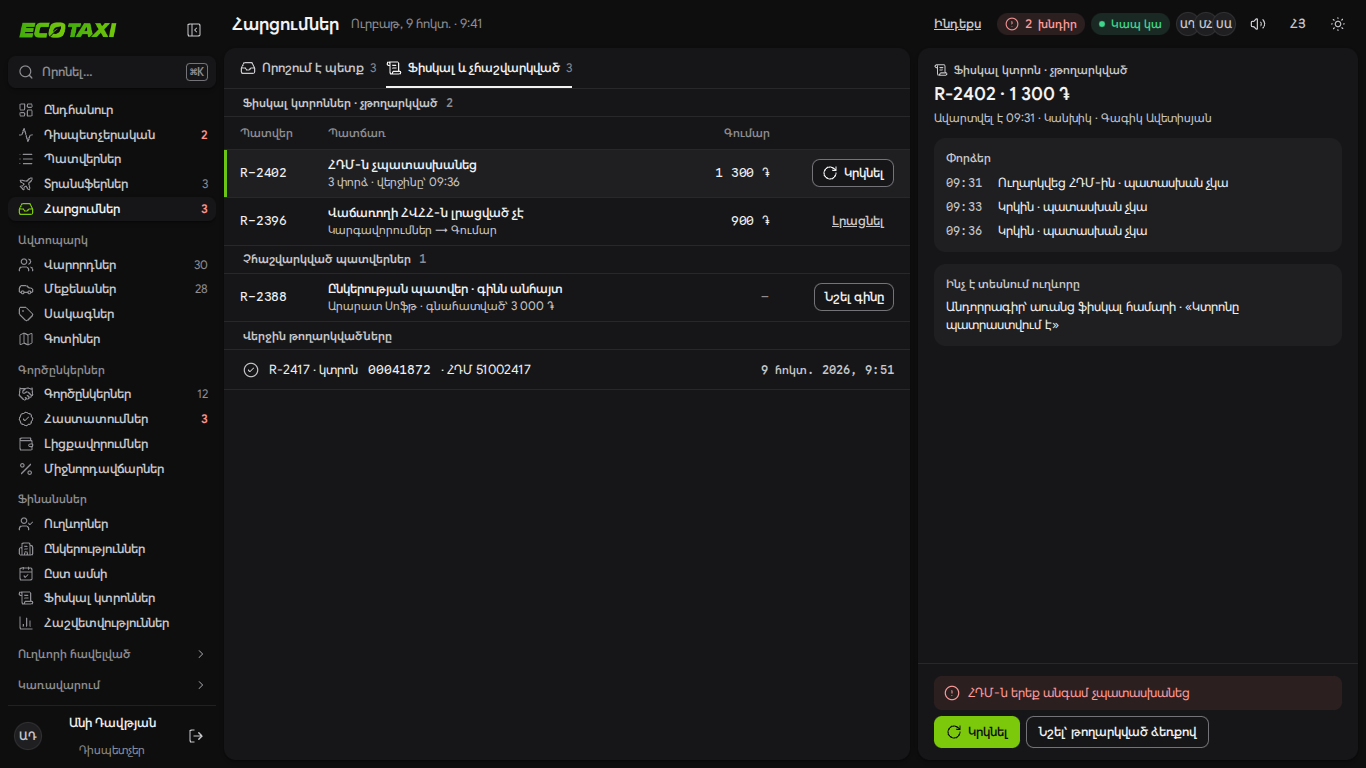
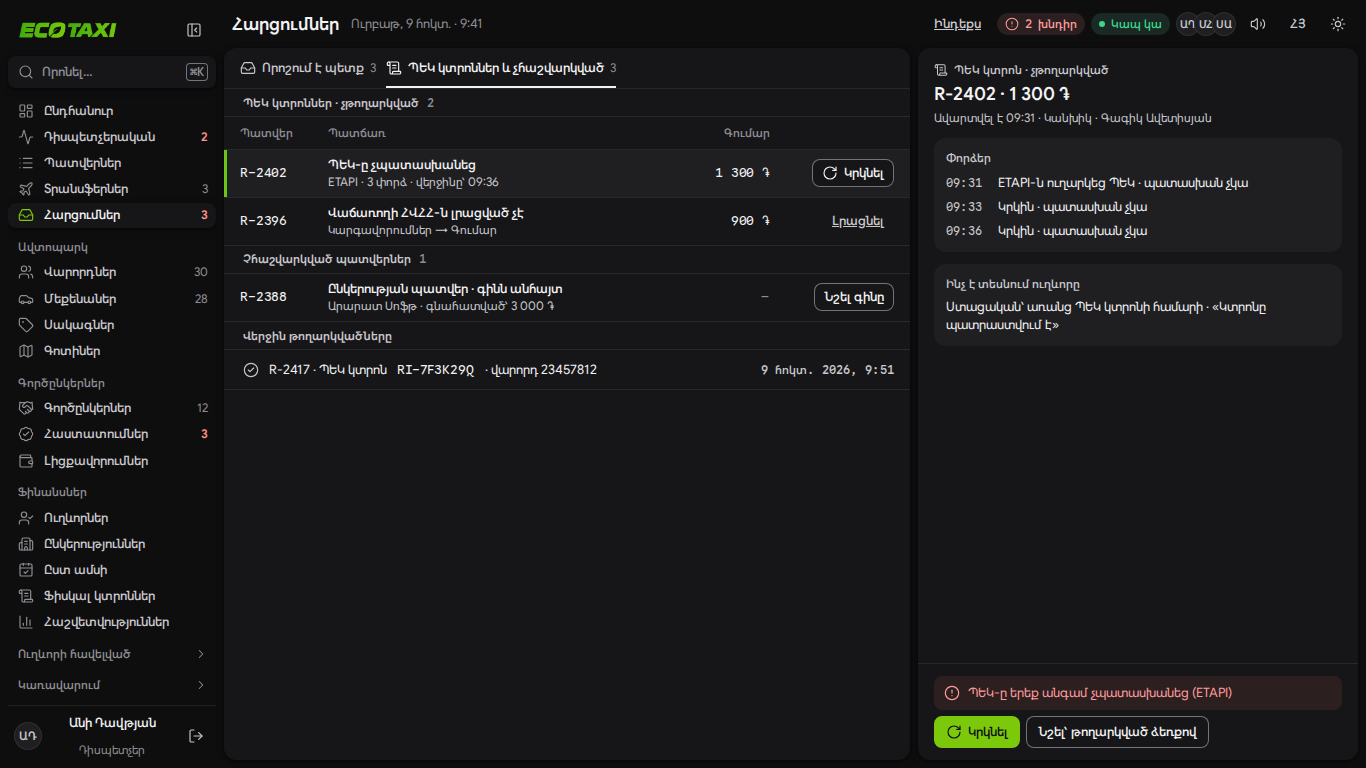
Preview: payment methods (cash, card, Apple/Google Pay, POS/NFC) and Tax Service receipts

diff --git a/driver-ride.html b/driver-ride.html
@@ -65,7 +65,7 @@
   .cash svg { width: 24px; height: 24px; color: var(--ok); flex: none; }
   .cash .t1 { font: var(--t-headline); color: var(--ink); white-space: nowrap; }
   .cash .t2 { font: var(--t-secondary); color: var(--ink-2); white-space: nowrap; font-variant-numeric: tabular-nums; }
-  /* Change list 2026-10-15: on Complete the driver can switch Cash → POS terminal before «Պատրաստ եմ» (the fare is
+  /* Change list 2026-10-15: on Complete the driver can switch Cash → POS terminal or NFC (his phone) before «Պատրաստ եմ» (the fare is
      final; only the method changes; the dispatcher and the receipt follow). The rider can switch Cash ↔ Card mid-ride. */
   .cash.pos { background: var(--info-soft); } .cash.pos svg { color: var(--info); }
   .cash.card { background: var(--surface-2); } .cash.card svg { color: var(--ink-2); }
@@ -243,7 +243,7 @@
   <!-- ── in progress, the rider switched Cash → Card in the app (change list 2026-10-15) ── -->
   <section class="sheet" data-s="paychanged" data-sheet>
     <div class="grabber"></div>
-    <div class="notice info" role="status"><i data-lucide="wallet"></i><div><b>Ուղևորը կվճարի քարտով</b>Կանխիկ մի վերցրեք · 9:48</div></div>
+    <div class="notice info" role="status"><i data-lucide="wallet"></i><div><b>Ուղևորը կվճարի հավելվածով՝ քարտ</b>Կանխիկ մի վերցրեք · 9:48</div></div>
     <div class="head" style="margin-top:var(--s3)">
       <div><div class="eyebrow"><span class="d"></span>3 րոպե · 2,1 կմ · 9:51</div><div class="addr">Կոմիտասի պող. 22</div></div>
       <div class="big" style="font:var(--t-title)">1 100 ֏</div>
@@ -286,7 +286,7 @@
       <div class="big">1 100<small>֏</small></div>
     </div>
     <div class="cash"><i data-lucide="banknote"></i><div><div class="t1">Վերցրեք կանխիկ</div><div class="t2">Աննա · Eco City · 1 100 ֏</div></div></div>
-    <div class="done-pay"><div class="paylbl">Ինչպես է վճարում ուղևորը</div><div class="seg" role="radiogroup" aria-label="Վճարման եղանակ"><button role="radio" aria-pressed="true" aria-checked="true">Կանխիկ</button><button role="radio" aria-pressed="false" aria-checked="false">POS տերմինալ</button></div></div>
+    <div class="done-pay"><div class="paylbl">Ինչպես է վճարում ուղևորը</div><div class="seg" role="radiogroup" aria-label="Վճարման եղանակ"><button role="radio" aria-pressed="true" aria-checked="true">Կանխիկ</button><button role="radio" aria-pressed="false" aria-checked="false">POS</button><button role="radio" aria-pressed="false" aria-checked="false">NFC</button></div></div>
     <div class="facts"><div><b>4,3 կմ</b><span>Ճանապարհ</span></div><div><b>6 րոպե</b><span>Տևողություն</span></div><div><b>1:20</b><span>Սպասում</span></div></div>
     <button class="go">Պատրաստ եմ</button>
   </section>
@@ -299,10 +299,24 @@
       <div class="l">Կոմիտասի պող. 22 · 9:51</div>
       <div class="big">1 100<small>֏</small></div>
     </div>
-    <div class="cash pos"><i data-lucide="credit-card"></i><div><div class="t1">Վճարում՝ POS տերմինալով</div><div class="t2">1 100 ֏ · կանխիկ մի վերցրեք</div></div></div>
-    <div class="done-pay"><div class="paylbl">Ինչպես է վճարում ուղևորը</div><div class="seg" role="radiogroup" aria-label="Վճարման եղանակ"><button role="radio" aria-pressed="false" aria-checked="false">Կանխիկ</button><button role="radio" aria-pressed="true" aria-checked="true">POS տերմինալ</button></div></div>
+    <div class="cash pos"><i data-lucide="credit-card"></i><div><div class="t1">Վճարում՝ POS տերմինալով</div><div class="t2">Ուղևորը քարտը մոտեցնում է ձեր տերմինալին</div></div></div>
+    <div class="done-pay"><div class="paylbl">Ինչպես է վճարում ուղևորը</div><div class="seg" role="radiogroup" aria-label="Վճարման եղանակ"><button role="radio" aria-pressed="false" aria-checked="false">Կանխիկ</button><button role="radio" aria-pressed="true" aria-checked="true">POS</button><button role="radio" aria-pressed="false" aria-checked="false">NFC</button></div></div>
     <div class="facts"><div><b>4,3 կմ</b><span>Ճանապարհ</span></div><div><b>6 րոպե</b><span>Տևողություն</span></div><div><b>1:20</b><span>Սպասում</span></div></div>
     <button class="go">Պատրաստ եմ</button>
+  </section>
+
+  <!-- ── complete, NFC: the driver's phone takes the tap (change list 2026-10-15); «Պատրաստ եմ» waits for the payment ── -->
+  <section class="sheet" data-s="done-nfc" data-sheet>
+    <div class="grabber"></div>
+    <div class="done-top">
+      <span class="ok"><i data-lucide="check"></i></span>
+      <div class="l">Կոմիտասի պող. 22 · 9:51</div>
+      <div class="big">1 100<small>֏</small></div>
+    </div>
+    <div class="cash pos" role="status"><i data-lucide="smartphone-nfc"></i><div><div class="t1">Մոտեցրեք քարտը հեռախոսին</div><div class="t2">1 100 ֏ · սպասում ենք վճարմանը</div></div></div>
+    <div class="done-pay"><div class="paylbl">Ինչպես է վճարում ուղևորը</div><div class="seg" role="radiogroup" aria-label="Վճարման եղանակ"><button role="radio" aria-pressed="false" aria-checked="false">Կանխիկ</button><button role="radio" aria-pressed="false" aria-checked="false">POS</button><button role="radio" aria-pressed="true" aria-checked="true">NFC</button></div></div>
+    <div class="facts"><div><b>4,3 կմ</b><span>Ճանապարհ</span></div><div><b>6 րոպե</b><span>Տևողություն</span></div><div><b>1:20</b><span>Սպասում</span></div></div>
+    <button class="go" aria-disabled="true" style="opacity:.5">Սպասում ենք վճարմանը…</button>
   </section>
 
   <!-- ── complete, the rider switched to card mid-ride: nothing to collect, no switch ── -->
@@ -313,7 +327,7 @@
       <div class="l">Կոմիտասի պող. 22 · 9:51</div>
       <div class="big">1 100<small>֏</small></div>
     </div>
-    <div class="cash card"><i data-lucide="wallet"></i><div><div class="t1">Վճարված է քարտով</div><div class="t2">ոչինչ մի վերցրեք · Աննա · Eco City</div></div></div>
+    <div class="cash card"><i data-lucide="wallet"></i><div><div class="t1">Վճարված է հավելվածով</div><div class="t2">քարտ ·· 4242 · ոչինչ մի վերցրեք</div></div></div>
     <div class="facts"><div><b>4,3 կմ</b><span>Ճանապարհ</span></div><div><b>6 րոպե</b><span>Տևողություն</span></div><div><b>1:20</b><span>Սպասում</span></div></div>
     <button class="go">Պատրաստ եմ</button>
   </section>
@@ -429,11 +443,11 @@
 <script>
   const st0 = new URLSearchParams(location.search).get('state') || 'assigned'
   /* The clock follows ECO.RIDE: assigned 9:41, at the pickup 9:45, riding 9:47, dropped 9:51. */
-  statusBar(document.getElementById('s'), { enroute: '9:43', arrived: '9:45', noshow: '9:50', noshowsent: '9:51', offline: '9:45', call: '9:45', cancel: '9:45', inprogress: '9:47', done: '9:51', 'done-pos': '9:51', 'done-card': '9:51', paychanged: '9:48', chat: '9:43', 'company-inprogress': '9:47', 'company-done': '9:51', changed: '9:43', destchanged: '9:48', sos: '9:48' }[st0] || '9:41')
+  statusBar(document.getElementById('s'), { enroute: '9:43', arrived: '9:45', noshow: '9:50', noshowsent: '9:51', offline: '9:45', call: '9:45', cancel: '9:45', inprogress: '9:47', done: '9:51', 'done-pos': '9:51', 'done-nfc': '9:51', 'done-card': '9:51', paychanged: '9:48', chat: '9:43', 'company-inprogress': '9:47', 'company-done': '9:51', changed: '9:43', destchanged: '9:48', sos: '9:48' }[st0] || '9:41')
   const st = D.init([
     ['assigned', 'Assigned · On my way'], ['enroute', 'En route · Arrived (guidance)'], ['arrived', 'Arrived · wait, slide Start'],
     ['noshow', 'No-show available (5:00+)'], ['noshowsent', 'No-show raised'], ['inprogress', 'In progress · slide Complete'],
-    ['done', 'Complete · collect cash'], ['done-pos', 'Complete · switched to POS terminal'], ['paychanged', 'Rider switched to card (in ride)'], ['done-card', 'Complete · paid by card'], ['forced', 'Forced acknowledgement'], ['offline', 'Offline · actions will sync'],
+    ['done', 'Complete · collect cash'], ['done-pos', 'Complete · switched to POS terminal'], ['done-nfc', 'Complete · NFC on the driver phone'], ['paychanged', 'Rider switched to card (in ride)'], ['done-card', 'Complete · paid by card'], ['forced', 'Forced acknowledgement'], ['offline', 'Offline · actions will sync'],
     ['call', 'Call sheet'], ['cancel', 'Cancel or give back'], ['chat', 'Chat · quick replies (ahead)'],
     ['company-inprogress', 'Company ride · in progress'], ['company-done', 'Company ride · complete, collect nothing'],
     ['changed', 'Order cancelled (mid-approach)'],
@@ -445,7 +459,7 @@
   const A = ROUTES.driverToPickup.pts, B = ROUTES.pickupToDrop.pts
   const bear = (p, q) => Math.atan2((q[1] - p[1]) * Math.cos(p[0] * Math.PI / 180), q[0] - p[0]) * 180 / Math.PI
   const car = (pts, i) => `<div class="me">${carTop(bear(pts[i], pts[Math.min(i + 2, pts.length - 1)]), 'var(--brand)', 'rgb(255 255 255 / .75)')}</div>`
-  const base = ['call', 'cancel'].includes(st) ? 'arrived' : st === 'chat' ? 'enroute' : { 'company-inprogress': 'inprogress', 'company-done': 'done', 'done-pos': 'done', 'done-card': 'done', paychanged: 'inprogress', sos: 'inprogress' }[st] || st
+  const base = ['call', 'cancel'].includes(st) ? 'arrived' : st === 'chat' ? 'enroute' : { 'company-inprogress': 'inprogress', 'company-done': 'done', 'done-pos': 'done', 'done-nfc': 'done', 'done-card': 'done', paychanged: 'inprogress', sos: 'inprogress' }[st] || st
   const main = document.querySelector('.sheet[data-sheet]:not([hidden]):not(.top)') || (st === 'sos' ? document.querySelector('.sheet[data-s~="inprogress"]') : document.querySelector('.sheet[data-s~="arrived"]'))
   if (st === 'sos') main.hidden = false
   if (['call', 'cancel', 'chat', 'sos'].includes(st)) { main.hidden = false; for (const el of [main, document.getElementById('fab'), document.getElementById('map'), ...document.querySelectorAll('.guide:not([hidden])')]) { el.dataset.overlay = ''; el.setAttribute('aria-hidden', 'true') } }

diff --git a/console/requests.html b/console/requests.html
@@ -94,7 +94,7 @@
   const V = DOCS.blocked
   document.getElementById('crumb').textContent = `${ECO.DAY.today} · ${ECO.DAY.now}`
   document.getElementById('tabs').innerHTML = `<a href="requests.html?theme=${THEME}" class="${TAB === 'all' ? 'on' : ''}"${TAB === 'all' ? ' aria-current="page"' : ''}><i data-lucide="inbox"></i>Որոշում է պետք <span class="c">3</span></a>
-    <a href="requests.html?theme=${THEME}&tab=fiscal" class="${TAB === 'fiscal' ? 'on' : ''}"${TAB === 'fiscal' ? ' aria-current="page"' : ''}><i data-lucide="scroll-text"></i>Ֆիսկալ և չհաշվարկված <span class="c">3</span></a>`
+    <a href="requests.html?theme=${THEME}&tab=fiscal" class="${TAB === 'fiscal' ? 'on' : ''}"${TAB === 'fiscal' ? ' aria-current="page"' : ''}><i data-lucide="scroll-text"></i>ՊԵԿ կտրոններ և չհաշվարկված <span class="c">3</span></a>`
   const row = (id, icon, tone, title, sub, when, pill, info) => `<a href="requests.html?theme=${THEME}&item=${id}" class="rq ${tone}${id === ITEM ? ' on' : ''}${info ? ' info' : ''}">
     <i data-lucide="${icon}"></i><span class="t">${title}</span><span class="s">${sub}</span>
     <span class="when">${when}</span><span class="st">${pill || ''}</span></a>`
@@ -155,19 +155,19 @@
     }
   } else {
     /* C50, drawn ahead (no fiscal API yet): receipts the e-HDM did not take, and rides whose money did not settle. */
-    document.getElementById('list').innerHTML = gh('Ֆիսկալ կտրոններ · չթողարկված', 2)
+    document.getElementById('list').innerHTML = gh('ՊԵԿ կտրոններ · չթողարկված', 2)
       + `<table class="tbl ft"><colgroup><col style="width:96px"><col><col style="width:96px"><col style="width:132px"></colgroup><thead><tr><th>Պատվեր</th><th>Պատճառ</th><th class="r">Գումար</th><th></th></tr></thead><tbody>
-        <tr class="on"><td class="mono">R-2402</td><td><span class="two"><b>ՀԴՄ-ն չպատասխանեց</b><span>3 փորձ · վերջինը՝ 09:36</span></span></td><td class="r mono">${ECO.amd(1300)}</td><td class="r"><button class="btn secondary s"><i data-lucide="rotate-cw"></i>Կրկնել</button></td></tr>
+        <tr class="on"><td class="mono">R-2402</td><td><span class="two"><b>ՊԵԿ-ը չպատասխանեց</b><span>ETAPI · 3 փորձ · վերջինը՝ 09:36</span></span></td><td class="r mono">${ECO.amd(1300)}</td><td class="r"><button class="btn secondary s"><i data-lucide="rotate-cw"></i>Կրկնել</button></td></tr>
         <tr><td class="mono">R-2396</td><td><span class="two"><b>Վաճառողի ՀՎՀՀ-ն լրացված չէ</b><span>Կարգավորումներ → Գումար</span></span></td><td class="r mono">${ECO.amd(900)}</td><td class="r"><a class="btn ghost s" href="settings.html?theme=${THEME}&tab=money">Լրացնել</a></td></tr></tbody></table>`
       + gh('Չհաշվարկված պատվերներ', 1)
       + `<table class="tbl ft"><colgroup><col style="width:96px"><col><col style="width:96px"><col style="width:132px"></colgroup><tbody>
         <tr><td class="mono">R-2388</td><td><span class="two"><b>Ընկերության պատվեր · գինն անհայտ</b><span>${ECO.COMPANY.short} · գնահատված՝ ${ECO.amd(3000)}</span></span></td><td class="r mono"><span class="faint">—</span></td><td class="r"><button class="btn secondary s">Նշել գինը</button></td></tr></tbody></table>`
       + gh('Վերջին թողարկվածները', '')
-      + `<div class="ptr"><i data-lucide="circle-check"></i>R-${F.ride} · կտրոն <span class="mono">${F.no}</span> · ${F.device}<span class="n">${F.at}</span></div>`
-    detail.innerHTML = `<div class="hd"><span class="k"><i data-lucide="scroll-text"></i>Ֆիսկալ կտրոն · չթողարկված</span><h2>R-2402 · ${ECO.amd(1300)}</h2><div class="meta">Ավարտվել է 09:31 · Կանխիկ · Գագիկ Ավետիսյան</div></div>
-      <div class="blk"><h3>Փորձեր</h3><ul class="tl2"><li><span class="mono">09:31</span><span>Ուղարկվեց ՀԴՄ-ին · պատասխան չկա</span></li><li><span class="mono">09:33</span><span>Կրկին · պատասխան չկա</span></li><li><span class="mono">09:36</span><span>Կրկին · պատասխան չկա</span></li></ul></div>
-      <div class="blk"><h3>Ինչ է տեսնում ուղևորը</h3><p style="font:var(--c-body);margin-top:6px">Անդորրագիր՝ առանց ֆիսկալ համարի · «Կտրոնը պատրաստվում է»</p></div>
-      <div class="acts2"><div class="notice red"><i data-lucide="circle-alert"></i><span>ՀԴՄ-ն երեք անգամ չպատասխանեց</span></div><button class="btn primary"><i data-lucide="rotate-cw"></i>Կրկնել</button><button class="btn secondary">Նշել՝ թողարկված ձեռքով</button></div>`
+      + `<div class="ptr"><i data-lucide="circle-check"></i>R-${F.ride} · ՊԵԿ կտրոն <span class="mono">${F.no}</span> · վարորդ ${F.driverTin}<span class="n">${F.at}</span></div>`
+    detail.innerHTML = `<div class="hd"><span class="k"><i data-lucide="scroll-text"></i>ՊԵԿ կտրոն · չթողարկված</span><h2>R-2402 · ${ECO.amd(1300)}</h2><div class="meta">Ավարտվել է 09:31 · Կանխիկ · Գագիկ Ավետիսյան</div></div>
+      <div class="blk"><h3>Փորձեր</h3><ul class="tl2"><li><span class="mono">09:31</span><span>ETAPI-ն ուղարկեց ՊԵԿ · պատասխան չկա</span></li><li><span class="mono">09:33</span><span>Կրկին · պատասխան չկա</span></li><li><span class="mono">09:36</span><span>Կրկին · պատասխան չկա</span></li></ul></div>
+      <div class="blk"><h3>Ինչ է տեսնում ուղևորը</h3><p style="font:var(--c-body);margin-top:6px">Ստացական՝ առանց ՊԵԿ կտրոնի համարի · «Կտրոնը պատրաստվում է»</p></div>
+      <div class="acts2"><div class="notice red"><i data-lucide="circle-alert"></i><span>ՊԵԿ-ը երեք անգամ չպատասխանեց (ETAPI)</span></div><button class="btn primary"><i data-lucide="rotate-cw"></i>Կրկնել</button><button class="btn secondary">Նշել՝ թողարկված ձեռքով</button></div>`
   }
   icons()
   document.documentElement.dataset.mapReady = 'none'

diff --git a/driver-index.html b/driver-index.html
@@ -45,7 +45,7 @@
     ['driver-home-states', [["away", "Away (auto, missed offers)"], ["offline", "Offline (off the line)"], ["lost", "Connection lost"], ["active", "Active ride card"], ["demo", "Practice ride running"], ["noshift", "No open shift"], ["location", "Location «while using» warning"], ["held", "Held for a pre-order (T−30)"], ["nomap", "Map unavailable"], ["newoffer", "Pending offer card (left the offer)"], ["docexpiry", "Insurance expiring (banner, 11 days)"], ["insurance", "Insurance expired · orders stopped · upload"], ["insurance-sent", "New insurance sent · waiting for approval"]]],
     ['driver-preorders', [["list", "My pre-orders"], ["list-end", "Scrolled · Transfer card + flight"], ["details", "Details · before T−30"], ["startable", "Details · start (T−30)"], ["starting", "Starting…"], ["started", "Started → en route"], ["refused", "Start refused (offline)"], ["noconn", "Start · no connection"], ["earlier", "Blocked · earlier booking"], ["cantmake", "«Չեմ հասցնի» · request sent"], ["cantmake-released", "«Չեմ հասցնի» · dispatcher took it"], ["cantmake-kept", "«Չեմ հասցնի» · asked to keep it"], ["reminder", "Reminder (T−25) + start"], ["activated", "Activated by fleet (T−15)"], ["empty", "Empty"], ["offline", "Offline (cached)"], ["error", "Error"], ["onride", "Start blocked · on a ride"], ["balance-partner", "Start blocked · balance (partner)"], ["noshift", "Start blocked · no shift"], ["changed", "Order cancelled (mid-approach)"], ["blacklisted", "Start refused · rider blacklisted"], ["gone", "Booking taken away by dispatcher"], ["company", "Company-paid pre-order"], ["transfer", "Airport transfer · flight FZ 715, name sign"]]],
     ['driver-offer-states', [["taken", "Taken by another driver"], ["expired", "Expired (no answer)"], ["decline", "Decline: one tap on a reason (ticking)"], ["declined", "Declined, back on the line"], ["company", "Company ride (paid by company)"], ["preorder-now", "Pre-order started now · first offer to its driver"], ["preorder-any", "Pre-order due · offered to any Eco City driver"], ["lock-android", "Locked screen · Android full-screen"], ["lock-ios", "Locked screen · iOS Time-Sensitive"]]],
-    ['driver-ride', [["assigned", "Assigned · On my way"], ["enroute", "En route · Arrived (guidance)"], ["arrived", "Arrived · wait, slide Start"], ["noshow", "No-show available (5:00+)"], ["noshowsent", "No-show raised"], ["inprogress", "In progress · slide Complete"], ["done", "Complete · collect cash"], ["done-pos", "Complete · switched to POS terminal"], ["paychanged", "Rider switched to card (in ride)"], ["done-card", "Complete · paid by card"], ["forced", "Forced acknowledgement"], ["offline", "Offline · actions will sync"], ["call", "Call sheet"], ["cancel", "Cancel or give back (reasons)"], ["chat", "Chat · quick replies (ahead)"], ["company-inprogress", "Company ride · in progress"], ["company-done", "Company ride · complete, collect nothing"], ["changed", "Order cancelled (mid-approach)"], ["destchanged", "Destination changed by dispatcher (re-priced)"], ["sos", "SOS · alert dispatcher / 112 (ahead)"]]],
+    ['driver-ride', [["assigned", "Assigned · On my way"], ["enroute", "En route · Arrived (guidance)"], ["arrived", "Arrived · wait, slide Start"], ["noshow", "No-show available (5:00+)"], ["noshowsent", "No-show raised"], ["inprogress", "In progress · slide Complete"], ["done", "Complete · collect cash"], ["done-pos", "Complete · switched to POS terminal"], ["done-nfc", "Complete · NFC on the driver phone"], ["paychanged", "Rider switched to card (in ride)"], ["done-card", "Complete · paid by card"], ["forced", "Forced acknowledgement"], ["offline", "Offline · actions will sync"], ["call", "Call sheet"], ["cancel", "Cancel or give back (reasons)"], ["chat", "Chat · quick replies (ahead)"], ["company-inprogress", "Company ride · in progress"], ["company-done", "Company ride · complete, collect nothing"], ["changed", "Order cancelled (mid-approach)"], ["destchanged", "Destination changed by dispatcher (re-priced)"], ["sos", "SOS · alert dispatcher / 112 (ahead)"]]],
     ['driver-inbox', [["list", "Notifications · 3 unread"], ["detail", "Opened · insurance reminder"], ["empty", "Empty"]]],
     ['driver-earnings', [["today", "Today · cash/company split"], ["week", "Week · daily bars"], ["month", "Month so far (date filter)"], ["picker", "Choose days · range sheet"], ["range", "Chosen range 1–7 Oct"], ["rides", "Rides by day (no balance: fleet)"], ["unavailable", "Unavailable · retry"]]],
     ['driver-account', [["main", "Account"], ["docs", "Documents · expiry"], ["language", "Language"], ["theme", "Theme · incl. Sun"], ["demo", "Practice ride"], ["demorunning", "Practice ride · running"], ["delete", "Delete account"], ["deleterequested", "Deletion requested"], ["signout", "Sign out · blocked by shift"], ["deleteblocked", "Delete blocked · open ride"], ["help", "Help · dispatcher, FAQ, legal"], ["legal", "Privacy policy"], ["update", "Update required"], ["diag", "Shift diagnostics"], ["rating", "Rating + past rides"]]],

diff --git a/rider-book.html b/rider-book.html
@@ -126,6 +126,7 @@
   .paylist .choice .ico { width: 36px; height: 36px; border-radius: 10px; background: var(--surface-2); display: grid; place-items: center; flex: none; }
   .paylist .choice .ico svg { width: 20px; height: 20px; }
   .paylist .choice .ico.cashc { color: var(--ok); }
+  .paylist .choice .t2 { display: block; font: var(--t-caption); color: var(--ink-2); }
   .paylist .choice[aria-disabled="true"] .t { color: var(--ink-2); }
   .paylist .choice[aria-disabled="true"] .ico { color: var(--ink-3); }
   .soon { height: 24px; padding: 0 10px; border-radius: var(--r-pill); background: var(--surface-2); font: var(--t-caption); line-height: 24px; color: var(--ink-2); flex: none; white-space: nowrap; }
@@ -293,7 +294,7 @@ ROUTES.preCo = { m: 5168, s: 485, pts: [[40.206708,44.503782],[40.206482,44.5040
 
   Rider.page({
     title: 'Rider · Booking details',
-    sub: 'Extends the approved tier sheet: when (now, or a quarter-hour up to 7 days ahead), a note for the driver (now only), payment (cash; card «Շուտով»), and the company / personal choice for corporate riders (monthly limit left, allowed places), and a promo code',
+    sub: 'Extends the approved tier sheet: when (now, or a quarter-hour up to 7 days ahead), a note for the driver (now only), payment (cash, card, Apple / Google Pay, POS or NFC at the driver), and the company / personal choice for corporate riders (monthly limit left, allowed places), and a promo code',
     states: [
       { id: 'details', group: 'Sheet', label: 'Details', note: 'One compact line under the tiers: when · note · payment. Order stays the one accent',
         html: () => details(null, TRIPS.now), map: (s) => drawRide(s) },
@@ -312,11 +313,8 @@ ROUTES.preCo = { m: 5168, s: 485, pts: [[40.206708,44.503782],[40.206482,44.5040
         html: () => whenSheet(1, B.air.time, 7), after: daysInView, map: (s) => drawRide(s, false, TRIPS.air) },
       { id: 'when-late', group: 'Sheets', label: 'When · late evening', time: '23:41', note: 'R29 (drawn ahead: the real sheet opens on an empty «Այսօր»). At 23:41 the first slot is past midnight, so today has none: its chip is struck through and the sheet opens on Tomorrow from 00:15. The row ends at the seventh day, and the line says both limits once',
         html: () => whenSheet(1, null, 0, { now: 23 * 60 + 41, note: 'Այսօր ազատ ժամ չկա · առավելագույնը 7 օր առաջ' }), after: (s) => s.querySelectorAll('.days .chip').forEach((c) => { const r = c.getBoundingClientRect(); if (r.right > 390) c.dataset.peek = '' }), map: (s) => drawRide(s, false, TRIPS.air) },
-      { id: 'pay', group: 'Sheets', label: 'Payment', note: 'Cash is the one live method (PaySheet.tsx); card is listed and honestly marked «Շուտով», never hidden. A company rider chooses Company / Personal on the sheet itself',
-        html: () => modal('Վճարում', `<div class="paylist" role="radiogroup" aria-label="Վճարման եղանակ">
-          <button class="choice" role="radio" aria-checked="true"><span class="ico cashc">${R.i('banknote')}</span><span class="t">Կանխիկ</span><span class="radio"></span></button>
-          <div class="divider" style="margin-left:48px"></div>
-          <button class="choice" role="radio" aria-checked="false" aria-disabled="true"><span class="ico">${R.i('wallet')}</span><span class="t">Քարտ</span><span class="soon">Շուտով</span></button></div>`), map: (s) => drawRide(s, false) },
+      { id: 'pay', group: 'Sheets', label: 'Payment', note: 'Owner 2026-10-15: cash, a saved card, Apple Pay (iPhone) / Google Pay (Android), or paying at the driver by POS terminal or NFC; «Ավելացնել քարտ» at the foot. Drawn ahead of card processing. A company rider chooses Company / Personal on the sheet itself',
+        html: () => modal('Վճարում', R.payList('cash')), map: (s) => drawRide(s, false) },
 
       { id: 'company', group: 'Company', label: 'Company ride · limit left', note: 'Change list 2026-10-14: no cost-centre code. Home → office (both allowed places, ECO.COMPANY.places): Company is offered; the billed-to line shows the employee\'s monthly limit left (ECO.COMPANY.empLimit.rider: 65 000 ֏, 12 600 left). Drawn ahead',
         html: () => company('company'), map: (s) => drawRide(s, false, TRIPS.co) },

diff --git a/rider-account.html b/rider-account.html
@@ -194,7 +194,9 @@
     ${grp([
       r('banknote', ECO.PAY.cash.label, `<span class="def">${R.i('check')}Հիմնական</span>`, { chev: false, btn: false, cls: 'cash' }),
       r('building-2', ECO.COMPANY.name, `<span class="val">${A(ECO.COMPANY.empLimit.rider.left)}</span>`, { t2: 'Մնացել է այս ամիս' }),
-      r('wallet', ECO.PAY.card.label, `<span class="soon">${ECO.PAY.soon}</span>`, { chev: false, btn: false, cls: 'off' }),
+      r('credit-card', `${ECO.PAY.card.label} ·· ${ECO.PAY.card.last4}`, '', { t2: 'Visa · 09/28' }),
+      r('smartphone', `${ECO.PAY.applepay.label} / ${ECO.PAY.googlepay.label}`, '', { t2: 'հեռախոսի դրամապանակից' }),
+      r('plus', 'Ավելացնել քարտ', '', {}),
     ])}</div>`
 
   /* delete-blocked variants: account.deleteBlocked as the title, the API's reason as the body (account.blocked*). */
@@ -205,7 +207,7 @@
 
   Rider.page({
     title: 'Rider · Account',
-    sub: 'Profile, saved places, payment (a debt said plainly, card honestly «Շուտով»), language, theme, sign out and deletion — all one tap from the list',
+    sub: 'Profile, saved places, payment (a debt said plainly, cash, card, Apple / Google Pay), language, theme, sign out and deletion — all one tap from the list',
     states: [
       { id: 'main', group: 'Account', label: 'Account', note: 'Delete is a visible row. Debt is a word plus colour, never colour alone. Help (call the office, questions) and Legal (terms, privacy) sit above sign-out, as both stores expect', html: () => main() },
       { id: 'main-company', group: 'Account', label: 'Company rider', note: 'A rider linked to a company on account: the payment row names the company. The choice itself is made per ride on the order sheet', html: () => main(false) },
@@ -252,7 +254,7 @@
             <div class="field focus"><span class="num"><span class="lbl">Անվանում</span><span class="v">Մարզասրահ<span class="caret"></span></span></span></div>
             <div class="btns"><button class="btn btn-brand">Պահել</button></div></section>${R.keyboard()}` },
       { id: 'place-remove-failed', group: 'Places', label: 'Remove failed', note: 'R64, real string (account.placeDeleteFailed): the row comes back and the toast offers a retry. Neutral, not red: nothing was lost', html: () => places('failed') },
-      { id: 'wallet', group: 'Balance', label: 'Debt', note: 'account.debtNote said plainly; the linked company is listed (AccountSheets.tsx WalletSheet), card is shown as «Շուտով», not hidden', html: () => wallet(true) },
+      { id: 'wallet', group: 'Balance', label: 'Debt', note: 'account.debtNote said plainly; the linked company is listed (AccountSheets.tsx WalletSheet), card, Apple / Google Pay and «Ավելացնել քարտ» below cash', html: () => wallet(true) },
       { id: 'wallet-clear', group: 'Balance', label: 'Clear', html: () => wallet(false) },
       { id: 'language', group: 'Settings', label: 'Language', note: 'Each language named, and coded, in its own script (ՀՅ / РУ / EN, as the driver app); applies on tap',
         html: () => over(`${mhead('Լեզու')}${choice('Հայերեն', true, '', 'ՀՅ')}${choice('Русский', false, '', 'РУ')}${choice('English', false, '', 'EN')}`) },

diff --git a/rider-history.html b/rider-history.html
@@ -221,7 +221,7 @@
         html: () => `<div class="page">${head().replace('<h1 class="large">Ուղևորություններ</h1>', '<h1 class="large">Ուղևորություն</h1>')}
           <div class="errbox" role="status"><span class="eo">${R.i('wifi-off')}</span><span class="et">Կապ չկա</span><span class="es">Ստացականը կբացվի կապի հետ</span></div>
           <div class="foot"><button class="btn btn-quiet">${R.i('rotate-ccw')}Կրկնել</button></div></div>` },
-      { id: 'receipt', label: 'Receipt document', time: '9:58', note: 'Change list 2026-10-14 (drawn ahead): the row\'s receipt button opens the ride\'s receipt as a document — seller and ՀՎՀՀ, ride number and date, route and times, tariff and driver, the tariff lines, a promo line when one was used (ECO.PROMO.applied AUTUMN15 −165 ֏), total, payment, and the fiscal receipt number (ECO.FISCAL). «Ներբեռնել PDF» is the one primary; share is the quiet second. A company ride shows «Վճարում է՝ {company}» in the payment line',
+      { id: 'receipt', label: 'Receipt document', time: '9:58', note: 'Change list 2026-10-14 (drawn ahead): the row\'s receipt button opens the ride\'s receipt as a document — seller and ՀՎՀՀ, ride number and date, route and times, tariff and driver, the tariff lines, a promo line when one was used (ECO.PROMO.applied AUTUMN15 −165 ֏), total, payment, and the Tax Service receipt (ECO.FISCAL, via ETAPI: receipt number, driver ՀՎՀՀ, the check link). «Ներբեռնել PDF» is the one primary; share is the quiet second. A company ride shows «Վճարում է՝ {company}» in the payment line',
         html: () => { const F = ECO.FISCAL, PA = ECO.PROMO.applied
           return `<div class="page on-surface"><nav class="nav"><button class="navbtn" aria-label="Հետ">${R.i('arrow-left')}</button><span class="navttl">Ստացական</span><button class="navbtn" aria-label="Կիսվել">${R.i('share')}</button></nav>
           <div class="scroll"><div class="doc" aria-label="Ստացական">
@@ -239,7 +239,9 @@
             <div class="cut"></div>
             <div class="tot"><span>Ընդամենը</span><span>${A(PA.pay)}</span></div>
             <div class="m" style="margin-top:var(--s1)"><span>Վճարում</span><b>${ECO.PAY.cash.label}</b></div>
-            <div class="m"><span>Ֆիսկալ կտրոն №</span><b>${F.no}</b></div>
+            <div class="m"><span>ՊԵԿ կտրոն №</span><b>${F.no}</b></div>
+            <div class="m"><span>Վարորդ · ՀՎՀՀ</span><b>${F.driverTin}</b></div>
+            <div class="m"><span>Ստուգել</span><b style="color:var(--brand-text, var(--ink))">${F.url}</b></div>
           </div></div>
           <div class="foot two"><button class="btn btn-brand">${R.i('download')}Ներբեռնել PDF</button></div></div>` } },
       { id: 'detail-cancelled', label: 'Cancelled', note: 'No fare was charged, and the reason the rider gave',

diff --git a/rider-done.html b/rider-done.html
@@ -147,14 +147,14 @@
         html: () => page(`${tripHead()}${collapsed}${who}${stars(LOW)}<div class="q" style="text-align:center">Ի՞նչը չստացվեց</div>
           ${chips(['Ուշացավ', 'Անզգույշ վարում', 'Մեքենան մաքուր չէր', 'Երկար երթուղի', 'Անհարմար զրույց'], [1])}`,
           '<button class="btn btn-brand">Ուղարկել</button><button class="btn-text">Բաց թողնել</button>') },
-      { id: 'fiscal', label: 'Fiscal receipt', time: '9:52', note: 'R58, drawn ahead (no fiscal API yet; the console\'s «Ֆիսկալ հերթ» holds the ones that failed to issue). Reached from «Ստացական» on Thanks and from the History receipt. The receipt as issued (ECO.FISCAL): seller, ՀՎՀՀ, ՀԴՄ, number, time, the one service line, total, method and the tax office\'s QR. Share sends the PDF (system share sheet); nothing else on screen (new strings)',
-        html: () => `<div class="page">${nav.replace('Ուղևորությունն ավարտված է', 'Ֆիսկալ կտրոն').replace('aria-label="Փակել">' + R.i('x'), 'aria-label="Փակել">' + R.i('x'))}<div class="body">
-          <div class="fis" aria-label="Ֆիսկալ կտրոն">
+      { id: 'fiscal', label: 'Tax Service receipt', time: '9:52', note: 'Owner 2026-10-15: we send the receipt ourselves, through ETAPI (register-income with the Tax Service: platform ՀՎՀՀ + driver ՀՎՀՀ, receipt_id and receipt_url). Cashless rides are filed at once; cash after ETAPI\'s 24 h hold, so until then the receipt reads «պատրաստվում է». Shown: platform and driver ՀՎՀՀ, receipt number, time, the one service line, total, method, and the QR to receipt_url. Share sends the PDF (system share sheet); nothing else on screen (new strings)',
+        html: () => `<div class="page">${nav.replace('Ուղևորությունն ավարտված է', 'ՊԵԿ կտրոն').replace('aria-label="Փակել">' + R.i('x'), 'aria-label="Փակել">' + R.i('x'))}<div class="body">
+          <div class="fis" aria-label="ՊԵԿ կտրոն">
             <div class="seller">${ECO.FISCAL.seller}</div>
             <div class="meta">
-              <div class="m"><span>ՀՎՀՀ</span><b>${ECO.FISCAL.tin}</b></div>
-              <div class="m"><span>ՀԴՄ</span><b>${ECO.FISCAL.device}</b></div>
-              <div class="m"><span>Կտրոն №</span><b>${ECO.FISCAL.no}</b></div>
+              <div class="m"><span>Հարթակ · ՀՎՀՀ</span><b>${ECO.FISCAL.tin}</b></div>
+              <div class="m"><span>Վարորդ · ՀՎՀՀ</span><b>${ECO.FISCAL.driverTin}</b></div>
+              <div class="m"><span>ՊԵԿ կտրոն №</span><b>${ECO.FISCAL.no}</b></div>
               <div class="m"><span>Ամսաթիվ</span><b>${ECO.FISCAL.at}</b></div>
             </div>
             <div class="cut"></div>

diff --git a/rider-ride.html b/rider-ride.html
@@ -244,13 +244,8 @@
           htmlMarker(m, k.ll, carTop(k.deg), [18, 34])
         } },
 
-      { id: 'pay-change', group: 'In the ride', label: 'Change payment', note: 'Change list 2026-10-15: «Փոխել» on the ride card opens the payment sheet mid-ride. Cash or a saved card; allowed until the driver completes the ride (then the row locks). The driver sees the change at once (driver-ride#paychanged). Company rides do not show the row. Card payments are drawn ahead',
-        time: '9:48', ...modal('Վճարման եղանակ', `<div class="paylist" role="radiogroup" aria-label="Վճարման եղանակ">
-          <button class="choice" role="radio" aria-checked="false"><span class="ico cashc">${R.i('banknote')}</span><span class="t">Կանխիկ<span class="t2">վարորդին՝ ավարտին</span></span><span class="radio"></span></button>
-          <div class="divider" style="margin-left:48px"></div>
-          <button class="choice" role="radio" aria-checked="true"><span class="ico">${R.i('wallet')}</span><span class="t">Քարտ ·· 4242<span class="t2">կգանձվի ավարտին</span></span><span class="radio"></span></button>
-          <div class="divider" style="margin-left:48px"></div>
-          <button class="choice"><span class="ico">${R.i('plus')}</span><span class="t">Ավելացնել քարտ</span></button></div>
+      { id: 'pay-change', group: 'In the ride', label: 'Change payment', note: 'Change list 2026-10-15: «Փոխել» on the ride card opens the payment sheet mid-ride. Any method (cash, card, Apple / Google Pay, POS or NFC at the driver); allowed until the driver completes the ride (then the row locks). The driver sees the change at once (driver-ride#paychanged). Company rides do not show the row. Card payments are drawn ahead',
+        time: '9:48', ...modal('Վճարման եղանակ', `${R.payList('card', { ride: true })}
           <div class="inline-note" style="margin:var(--s3) 0">${R.i('info')}<span>Կարող եք փոխել մինչև ուղևորության ավարտը · վարորդը կտեսնի անմիջապես</span></div>
           <button class="btn btn-brand">Պահել</button>`, 'riding'),
         map: (s) => { const k = at(T, .45), rest = T.slice(k.i); const m = R.map(s, { fit: rest, padTL: [56, 96], padBR: [56, s.querySelector('#sheet').offsetHeight + 56] }); drawRoute(m, rest, { weight: 5 }); htmlMarker(m, DROP, '<div class="pin-b"></div>', [18, 18]); htmlMarker(m, k.ll, carTop(k.deg), [18, 34]) } },

diff --git a/kit.js b/kit.js
@@ -43,7 +43,13 @@
     PAY: {
       cash: { label: 'Կանխիկ', icon: 'banknote', live: true },
       company: { label: 'Ընկերության հաշվին', short: 'Ընկերություն', icon: 'building-2', live: true },
-      card: { label: 'Քարտ', icon: 'credit-card', live: false },
+      /* Owner 2026-10-15: cash, card, NFC, Google Pay, Apple Pay. In-app card / wallets are charged by the app (ETAPI
+         CASHLESS); POS and NFC are paid at the driver's terminal or phone (ETAPI CASHLESS_POS); cash is ETAPI CASH. */
+      card: { label: 'Քարտ', icon: 'credit-card', live: true, last4: '4242' },
+      applepay: { label: 'Apple Pay', icon: 'smartphone', live: true },
+      googlepay: { label: 'Google Pay', icon: 'smartphone', live: true },
+      pos: { label: 'POS տերմինալ', icon: 'credit-card', live: true },
+      nfc: { label: 'NFC', icon: 'smartphone-nfc', live: true },
       idram: { label: 'Idram', live: false }, telcell: { label: 'Telcell', live: false },
       soon: 'Շուտով',
     },
@@ -174,7 +180,9 @@
     /* App versions for «update required» (rider R68, driver D40): the minimum the fleet accepts, set by the office. */
     APP: { rider: { have: '1.3.2', min: '1.4.0' }, driver: { have: '2.2.7', min: '2.3.0' } },
     /* The walkthrough ride's fiscal receipt (R58, drawn ahead: no fiscal API yet; console's «Ֆիսկալ հերթ»). */
-    FISCAL: { ride: '2417', no: '00041872', device: 'ՀԴՄ 51002417', tin: '02598741', seller: 'Էկո Տաքսի ՍՊԸ', at: '9 հոկտ. 2026, 9:51' },
+    /* The receipt is the Tax Service's (ETAPI register-income): the ride is filed as the driver's income through the
+       platform; it returns receipt_id + receipt_url. Cash is filed after ETAPI's 24 h hold, cashless at once. */
+    FISCAL: { ride: '2417', no: 'RI-7F3K29Q', tin: '02598741', seller: 'Էկո Տաքսի ՍՊԸ', driverTin: '23457812', driver: 'Արամ Պետրոսյան', income: 'Կանխիկ', at: '9 հոկտ. 2026, 9:51', url: 'taxservice.am/r/RI-7F3K29Q' },
     /* The partner's top-up arriving (P10): Կարեն, blocked at −320 ֏ in the app, pays 5 000 ֏ at the office. */
     TOPUP: { id: 'TU-0419', amount: 5000, before: -320, after: 4680, via: 'office', at: '10:12', by: 'Անի Դավթյան' },
 

diff --git a/console/index.html b/console/index.html
@@ -97,7 +97,7 @@
       ['requests?item=doc', 'Նոր ապահովագրություն', 'Requests: approve a new insurance document', 'Old vs new document, the validity typed from the photo, amber «Պատվերները դադարեցված են», «Հաստատել» / «Մերժել».'],
       ['requests?item=bl', 'Սև ցուցակ · տեղեկություն', 'Requests: blacklisted rider refused in the app', 'Amber octagon, no decision needed.'],
       ['requests?item=car', 'Սխալ մեքենա', 'Requests: wrong-car report', 'The driver pressed «Սխալ մեքենա է»: system car vs the car he sits in, what that breaks, and «Վերաբացել հերթափոխը 12 TT 304-ով» one click deep.'],
-      ['requests?tab=fiscal', 'Ֆիսկալ և չհաշվարկված', 'Requests: fiscal and unsettled exceptions (drawn ahead)', 'Receipts the ՀԴՄ did not take (retry, fix the seller ՀՎՀՀ), a company ride with no known fare, and the last issued receipt (R-2417).'],
+      ['requests?tab=fiscal', 'Ֆիսկալ և չհաշվարկված', 'Requests: fiscal and unsettled exceptions (drawn ahead)', 'Tax Service receipts ETAPI could not file (retry, fix the driver ՀՎՀՀ), a company ride with no known fare, and the last issued receipt (R-2417).'],
     ]],
     ['Ավտոպարկ', 'Fleet', [
       ['drivers', 'Վարորդներ', 'Fleet drivers + driver detail', 'Fleet drivers only: shift car, documents (Վահե Ս. stopped for expired insurance), today\'s rides. No balance: fleet drivers have none (owner 14 Oct).'],

diff --git a/rider.js b/rider.js
@@ -64,6 +64,18 @@
     },
     bbox(pt, dLat, dLng) { return [[pt[0] - dLat, pt[1] - dLng], [pt[0] + dLat, pt[1] + dLng]] },
   }
+  /* Payment methods (owner 2026-10-15). Apple Pay shows on iPhone, Google Pay on Android — the mock lists both. */
+  R.payList = (sel, o = {}) => {
+    const P = ECO.PAY, row = (id, ic, t, t2, cls) => `<button class="choice" role="radio" aria-checked="${sel === id}"><span class="ico ${cls || ''}">${R.i(ic)}</span><span class="t">${t}<span class="t2">${t2}</span></span><span class="radio"></span></button>`
+    const div = '<div class="divider" style="margin-left:48px"></div>'
+    return `<div class="paylist" role="radiogroup" aria-label="Վճարման եղանակ">${[
+      row('cash', 'banknote', P.cash.label, o.ride ? 'վարորդին՝ ավարտին' : 'վարորդին', 'cashc'),
+      row('card', 'credit-card', `${P.card.label} ·· ${P.card.last4}`, 'կգանձվի ավարտին'),
+      row('applepay', 'smartphone', P.applepay.label, 'iPhone-ում'),
+      row('googlepay', 'smartphone', P.googlepay.label, 'Android-ում'),
+      row('driver', 'smartphone-nfc', 'Վարորդի մոտ՝ POS կամ NFC', 'քարտը կամ հեռախոսը մոտեցնել'),
+    ].join(div)}${div}<button class="choice"><span class="ico">${R.i('plus')}</span><span class="t">Ավելացնել քարտ</span></button></div>`
+  }
   window.R = R
 
   function ready() {
